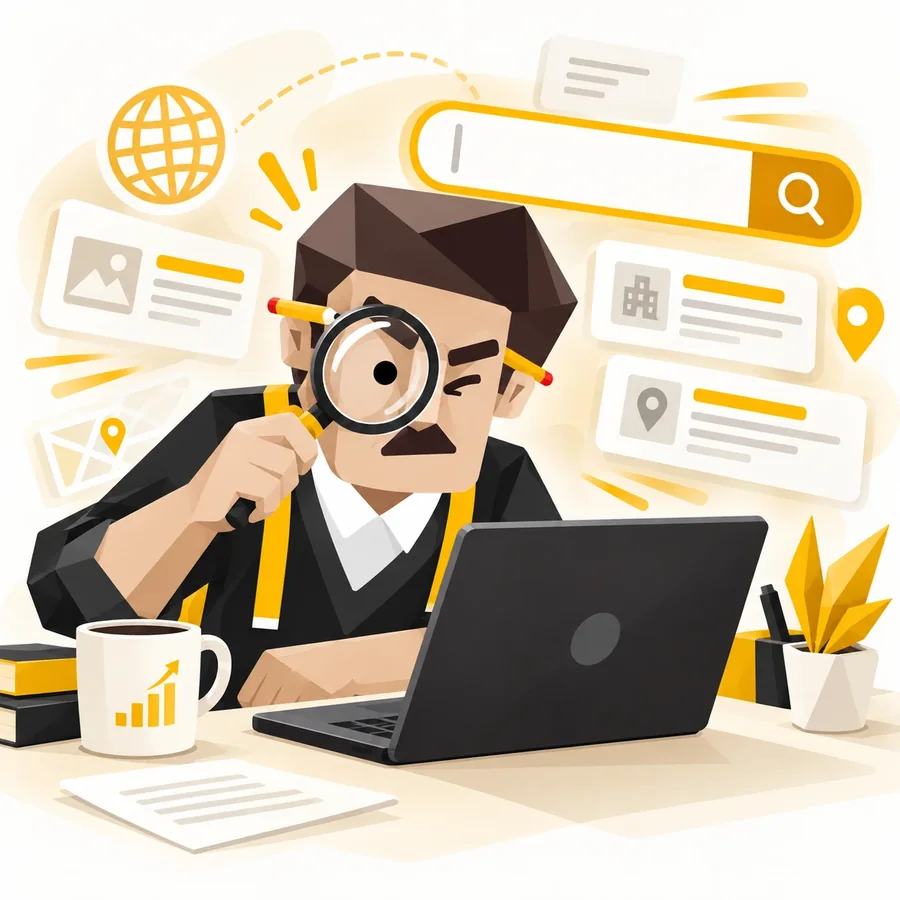
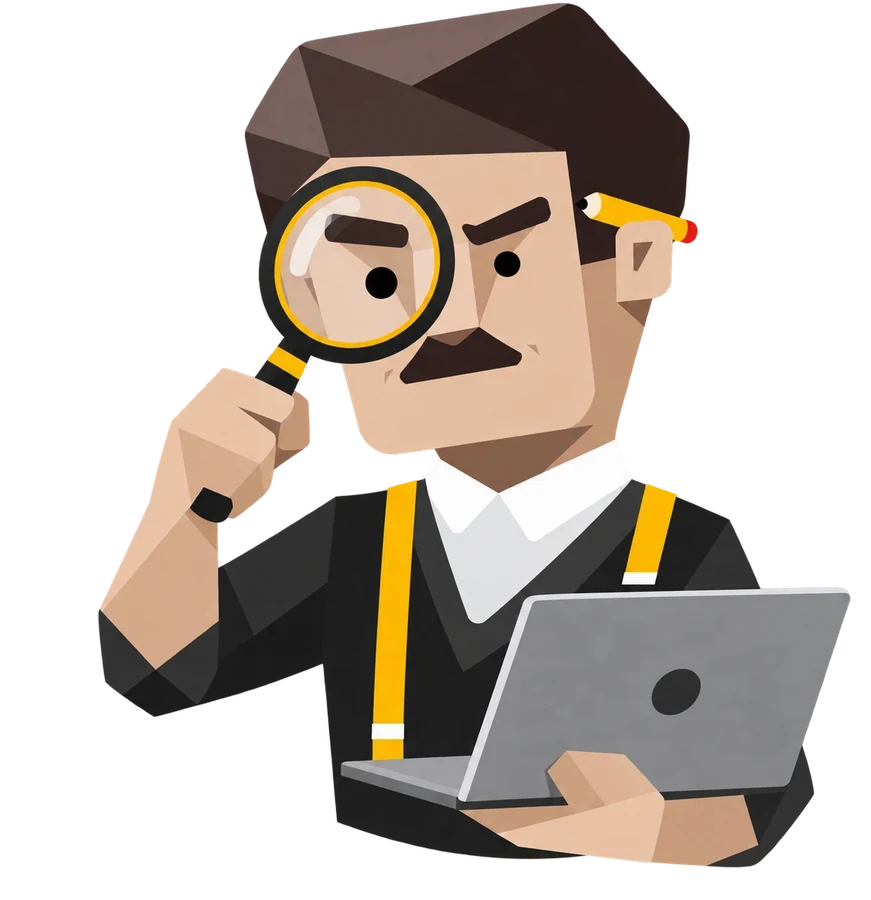
feat: הדמות עומדת חופשי לאורך דף הנחיתה, בלי מסגרות
- שישה איורים שקופים: מקליד, זכוכית מגדלת ומציג דוח בשלבי "איך זה
  עובד", מותח סרט מדידה כמפריד בין חלקים, מחזיק גרף מעל ההמלצות,
  ומושיט יד בקריאה האחרונה
- זוהר זהוב מאחורי כל איור, כדי שהבגד השחור לא ייבלע ברקע הכהה

diff --git a/src/app/lp/page.tsx b/src/app/lp/page.tsx
@@ -6,7 +6,6 @@ import { useEffect, useRef, useState } from "react";
 import FaqSection from "@/components/lp/FaqSection";
 import GoogleG from "@/components/lp/GoogleG";
 import HowItWorks from "@/components/lp/HowItWorks";
-import MeasuringTape from "@/components/lp/MeasuringTape";
 import PartnerChip from "@/components/lp/PartnerChip";
 import ProblemSection from "@/components/lp/ProblemSection";
 import ProofStrip from "@/components/lp/ProofStrip";
@@ -88,8 +87,11 @@ export default function LandingPage() {
       <ProofStrip />
       <ProblemSection />
 
-      <div className="pointer-events-none -mx-6 -rotate-1 overflow-hidden shadow-[0_10px_40px_rgba(0,0,0,0.6)]">
-        <MeasuringTape className="h-10 w-full lg:h-12" />
+      {/* מפריד: החייט מותח את סרט המדידה */}
+      <div className="relative mx-auto w-full max-w-md px-8 sm:max-w-xl">
+        <div aria-hidden className="absolute inset-x-0 inset-y-4 rounded-full bg-[radial-gradient(ellipse,rgba(238,216,155,0.26),transparent_68%)]" />
+        {/* eslint-disable-next-line @next/next/no-img-element */}
+        <img src="/images/tailor-tape.webp" alt="החייט מותח סרט מדידה" loading="lazy" className="relative w-full" />
       </div>
 
       {/* החלק השני: מה זה אומר בכסף. הדמות מסבירה שזו הדמיה, כדי שאף אחד לא יחשוב שאלה המספרים שלו */}
@@ -129,7 +131,7 @@ export default function LandingPage() {
         <div aria-hidden className="pointer-events-none absolute inset-0 bg-[radial-gradient(ellipse_at_50%_70%,rgba(238,216,155,0.14),transparent_60%)]" />
         <div className="relative mx-auto flex w-full max-w-6xl flex-col items-center px-5 py-14 text-center lg:px-8 lg:py-28">
           {/* eslint-disable-next-line @next/next/no-img-element */}
-          <img src="/images/tailor-character.png" alt="" className="h-28 w-28" />
+          <img src="/images/tailor-handshake.webp" alt="החייט מושיט יד ללחיצה" loading="lazy" className="w-44 sm:w-56" />
           <h2 className="mt-6 max-w-3xl text-balance text-3xl font-semibold leading-tight sm:text-5xl">עכשיו תורכם. מה התחום שלכם?</h2>
           <p className="mt-4 max-w-xl text-lg leading-relaxed text-[#c9c2b3]">שתי דקות, ותדעו כמה הפרסום בגוגל אמור להחזיר לכם. לפני שהשקעתם שקל.</p>
           <div className="mt-9 w-full"><SearchStage onSubmit={goToChat} demo={false} /></div>

diff --git a/src/components/lp/HowItWorks.tsx b/src/components/lp/HowItWorks.tsx
@@ -50,11 +50,12 @@ export default function HowItWorks() {
                   <h3 className="mt-3 text-2xl font-semibold text-[#f4f0e7] sm:text-3xl">{s.title}</h3>
                   <p className="mt-2 max-w-2xl text-lg leading-relaxed text-[#c9c2b3]">{s.body}</p>
                   </div>
-                  {/* האיור כמו תמונה מודבקת: מסגרת לבנה, נטייה קלה לסירוגין */}
+                  {/* הדמות עומדת חופשי על הרקע הכהה. הזוהר הזהוב מאחור שומר על קו המתאר של הבגד השחור */}
                   {s.img && (
-                    <div className={`w-full max-w-[19rem] rounded-2xl bg-white p-1.5 shadow-[0_24px_60px_-18px_rgba(238,216,155,0.4)] sm:max-w-none ${i % 2 === 0 ? "-rotate-2" : "rotate-2"}`}>
+                    <div className="relative mx-auto w-full max-w-[15rem] sm:max-w-none">
+                      <div aria-hidden className="absolute inset-0 rounded-full bg-[radial-gradient(circle,rgba(238,216,155,0.30),transparent_68%)]" />
                       {/* eslint-disable-next-line @next/next/no-img-element */}
-                      <img src={s.img} alt={s.alt} loading="lazy" className="w-full rounded-xl" />
+                      <img src={s.img} alt={s.alt} loading="lazy" className="relative w-full" />
                     </div>
                   )}
                 </li>

diff --git a/src/components/lp/TestimonialsSection.tsx b/src/components/lp/TestimonialsSection.tsx
@@ -7,7 +7,12 @@ export default function TestimonialsSection() {
   return (
     <section className="bg-black">
       <div className="mx-auto w-full max-w-6xl overflow-hidden px-5 py-16 lg:px-8 lg:py-28">
-        <p className="text-center text-sm font-medium text-brand-gold">לקוחות מספרים</p>
+        <div className="relative mx-auto w-40 sm:w-52">
+          <div aria-hidden className="absolute inset-0 rounded-full bg-[radial-gradient(circle,rgba(238,216,155,0.30),transparent_68%)]" />
+          {/* eslint-disable-next-line @next/next/no-img-element */}
+          <img src="/images/tailor-chart.webp" alt="החייט מציג גרף עולה" loading="lazy" className="relative w-full" />
+        </div>
+        <p className="mt-6 text-center text-sm font-medium text-brand-gold">לקוחות מספרים</p>
         <h2 className="mt-3 text-balance text-center text-3xl font-semibold leading-tight sm:text-5xl">היעד היה 5 מופעים בחודש. היא סגרה 16.</h2>
 
         <figure className="mx-auto mt-12 max-w-4xl rounded-2xl border border-brand-gold/40 bg-[#14120e] p-7 sm:p-10">
